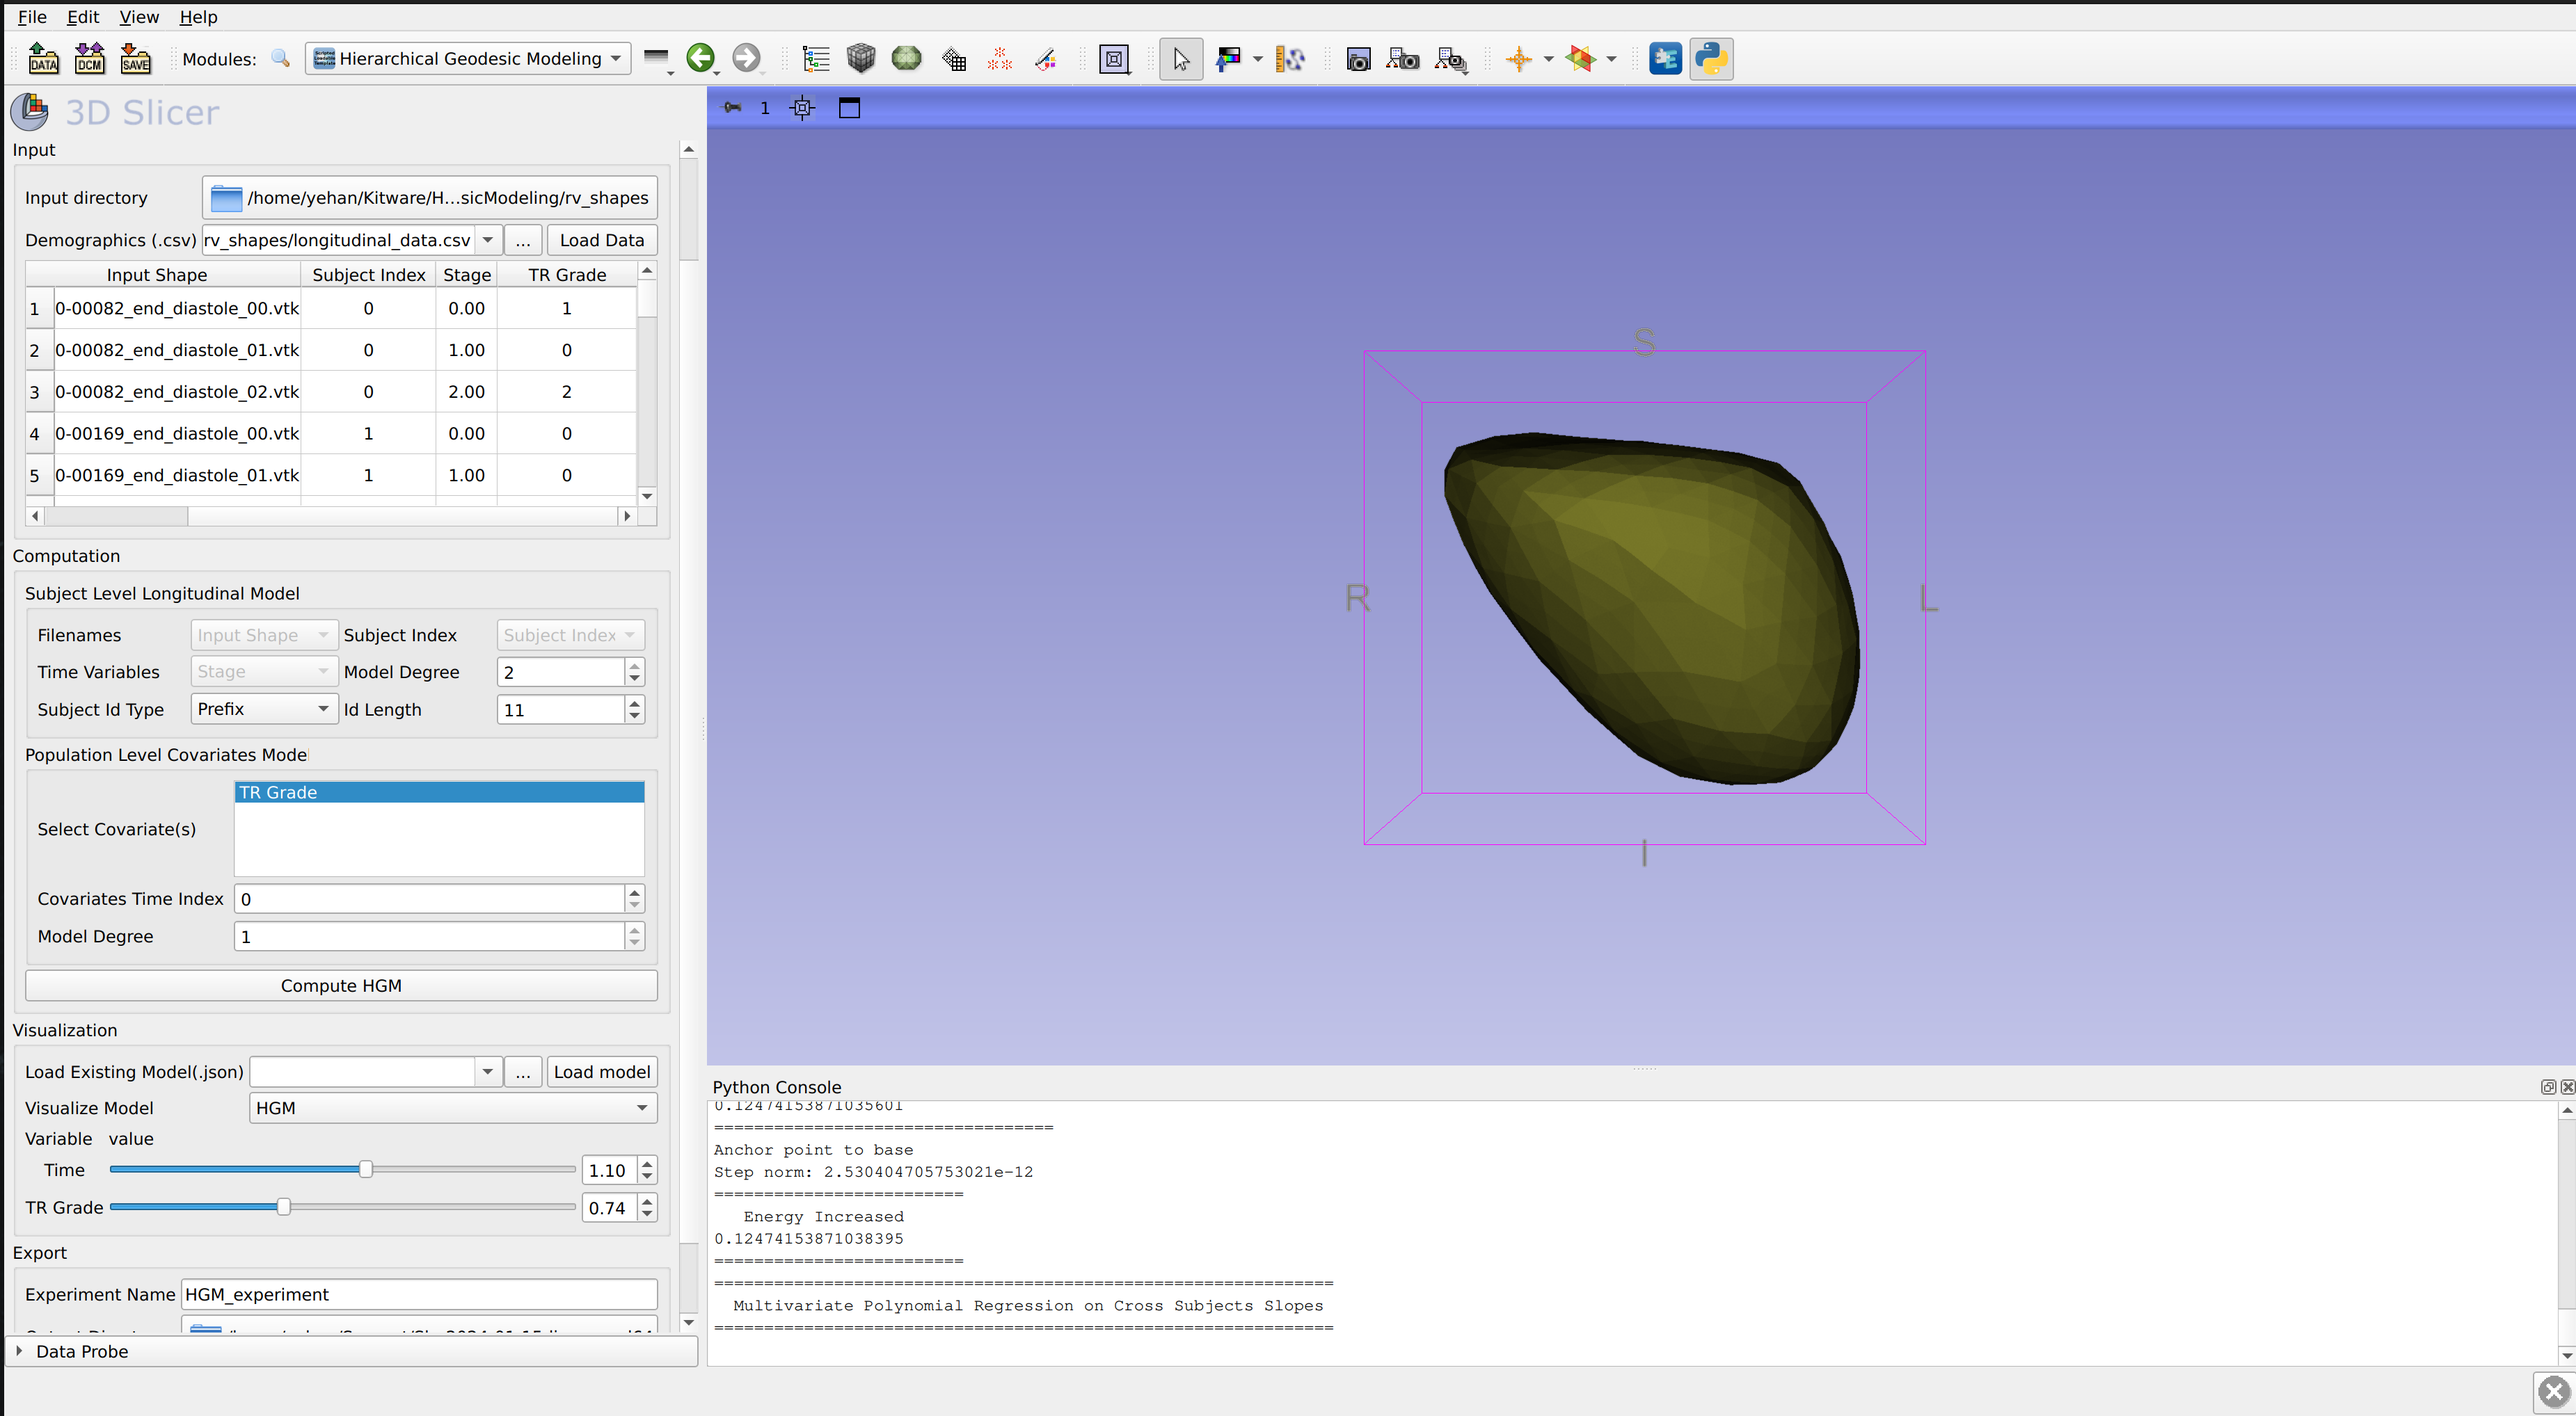
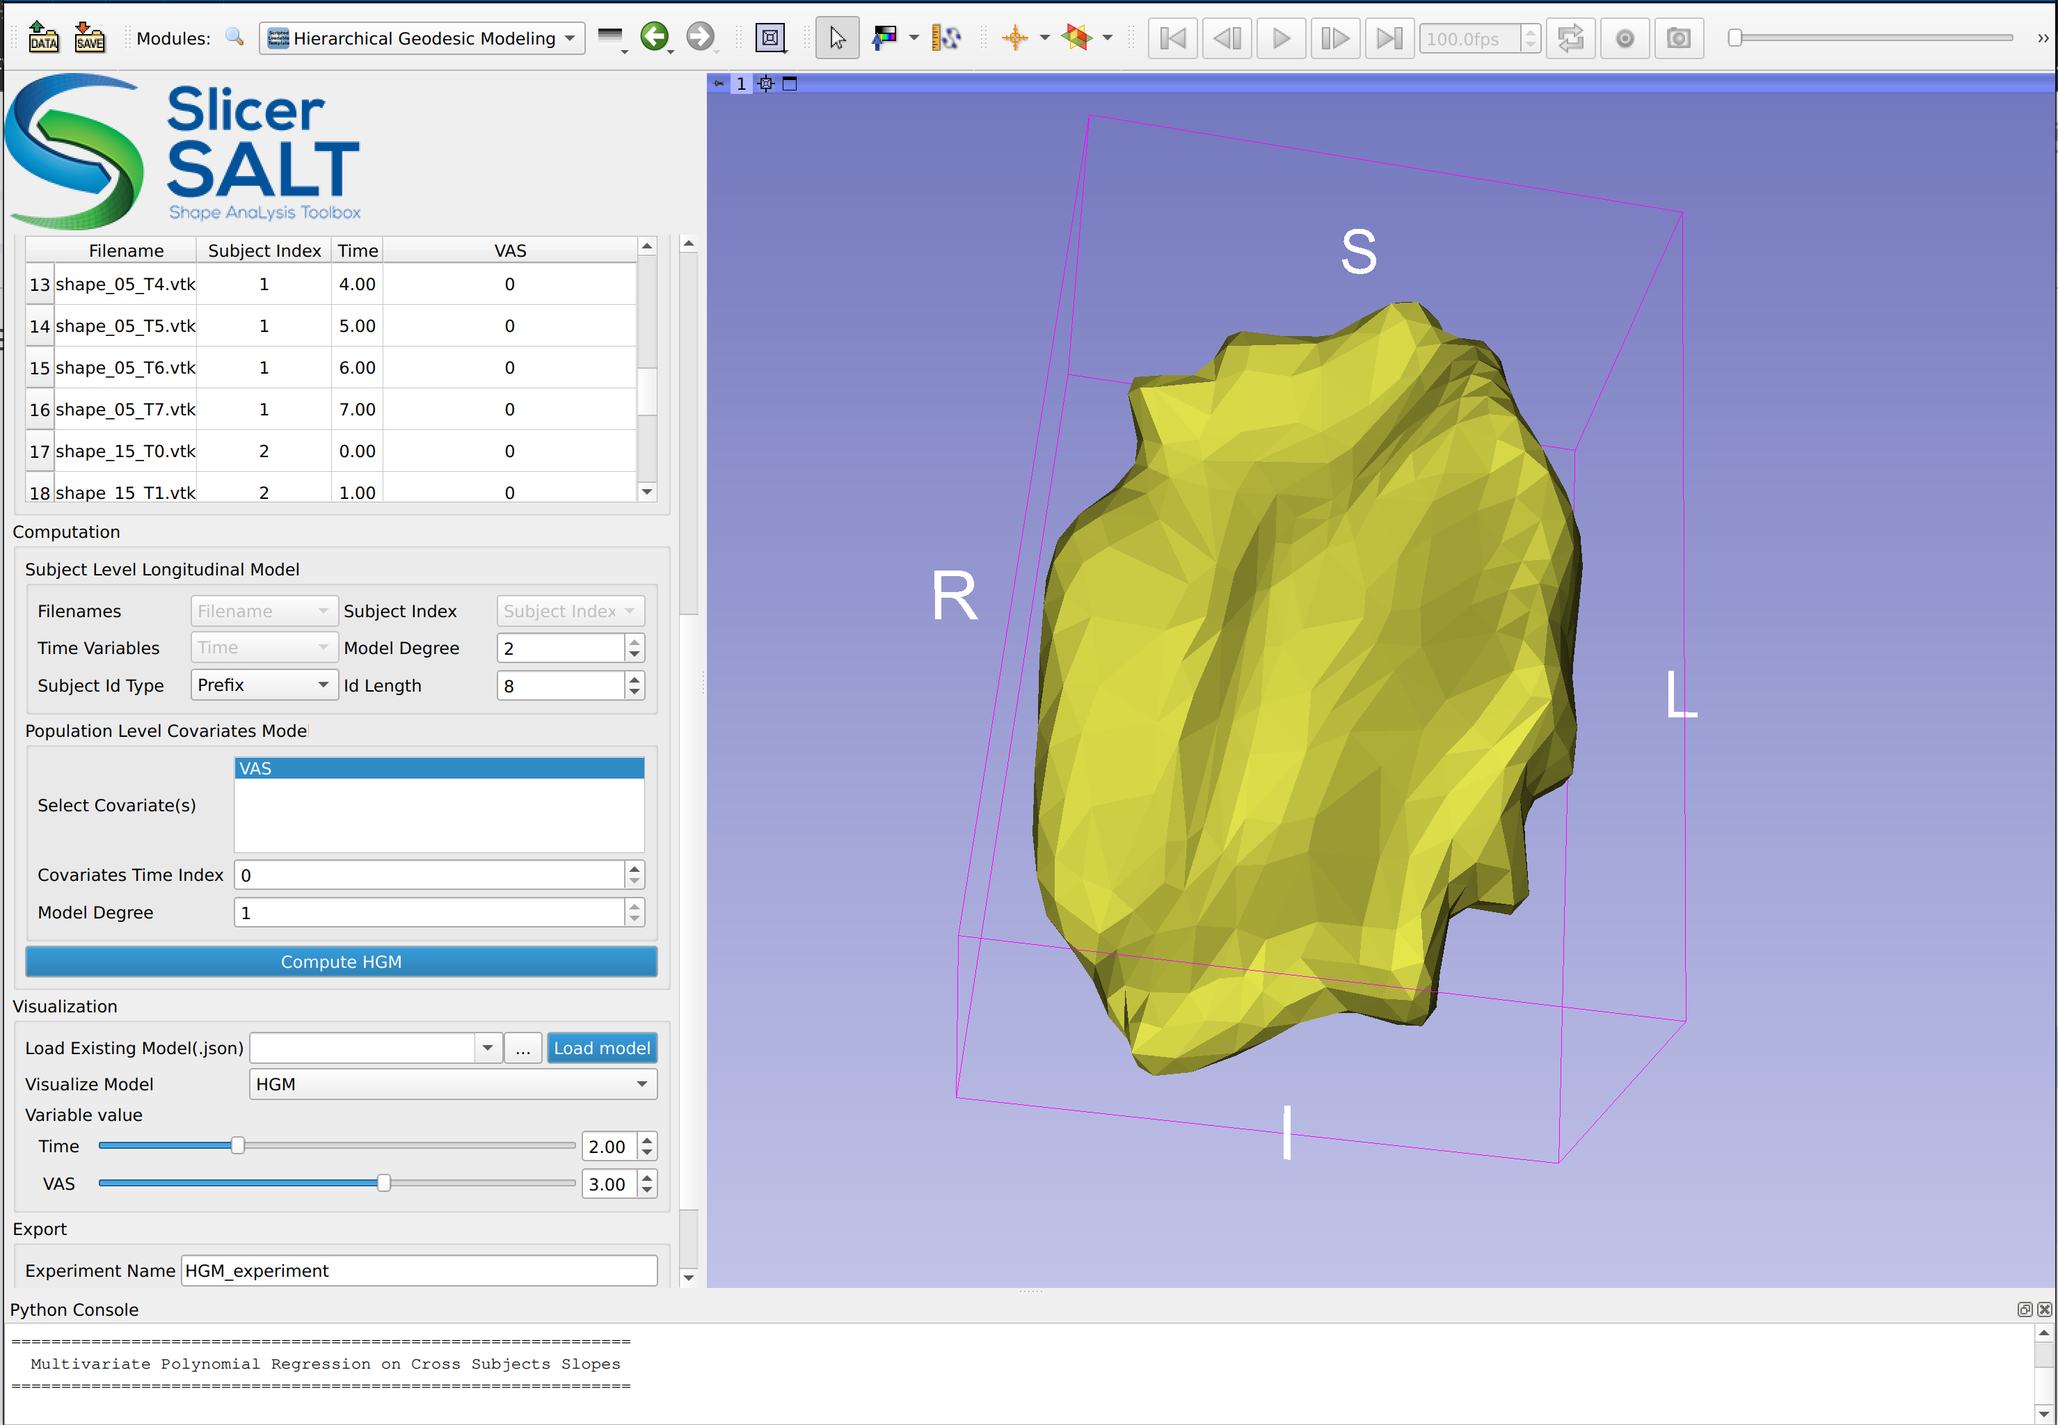
ENH: Update picture

diff --git a/README.md b/README.md
@@ -4,7 +4,7 @@
 HierarchicalGeodesicModeling is a 3D Slicer module is for computation and visualization/analysis of longtiudinal shape 
 models using geodesic based shape modeling methodology. It is part of the newly added functionalities in [SlicerSALT 5.0.0 release](https://salt.slicer.org/).
 
-<img src="https://raw.githubusercontent.com/KitwareMedical/HierarchicalGeodesicModeling/refs/heads/main/HGM_Screenshot.png" width="80%">
+![Applying HGM module to the longitudinal analysis of shape change in L1L2 intervertebral disc w.r.t. patient reported initial VAS.](/HGM_Screenshot.png)
 
 This module implements a hierarchical geodesic modeling method based on our [IPMI paper](https://www.ncbi.nlm.nih.gov/pmc/articles/PMC10323213/).
 It allows user to perform longitudinal analysis on anatomies of interest in shape space, which is a core aspect of many medical applications for understanding the relationship between an anatomical subject’s functions and its trajectory of shape change over time.
@@ -17,10 +17,10 @@ Given a set of correspondence established shapes of subjects, this module comput
 ## How to use
 1. Two inputs are required for using this module:
    - An input `directory` that contains all the shape files in ".vtk" format.
-   - A `demographcs(.csv)` file that has the information for each shape file including `filenames`, `subject index`, `time variables` and `covariates`.
+   - A `demographics(.csv)` file that has the information for each shape file including `filenames`, `subject index`, `time variables` and `covariates`.
    
 
-2. After setting the inputs, click `Load data` to load the `demographcs(.csv)` into the module. The first three columns of `demographcs(.csv)` should be `filename`, `subject index` and `time variable`. The rest columns are `covariates` which can be clinical assessments or other functional values associated with the input shapes.
+2. After setting the inputs, click `Load data` to load the `demographics(.csv)` into the module. The first three columns of `demographics(.csv)` should be `filename`, `subject index` and `time variable`. The rest columns are `covariates` which can be clinical assessments or other functional values associated with the input shapes.
 
 
 3. The loaded data will populate the module table and the option/parameter entries. The options/parameters are briefly described below:
@@ -50,7 +50,7 @@ A simple example dataset is can be downloaded [here](https://raw.githubuserconte
 ### Additional notes
 - Shape modeling is performed in shape space (the pre-space of Kendall space). All input shapes' scale and rotation will be removed by partial procrustes alignment as part of preprocessing. And all the result shapes have size "1" (squared sum of point coordinates).
 - The input shapes should be correspondence established both within and across individual subjects. All `.vtk` files should have the same number of points, and each point corresponds to the point of the same index in the other input shapes. Correspondence between meshes of different topologies can be established by using existing mesh-to-mesh registration tools in [SlicerSALT](https://salt.slicer.org/).
-- `subject index` in the input `demographcs(.csv)` file should start from 0.
+- `subject index` in the input `demographics(.csv)` file should start from 0.
 - The time variables can be different across individual subjects (e.g. T_subject0 = [0, 1, 2] and T_subject1 = [0.1, 1.2, 2.3]).
 But each input subject should contain the same number of time points as the others.
 
